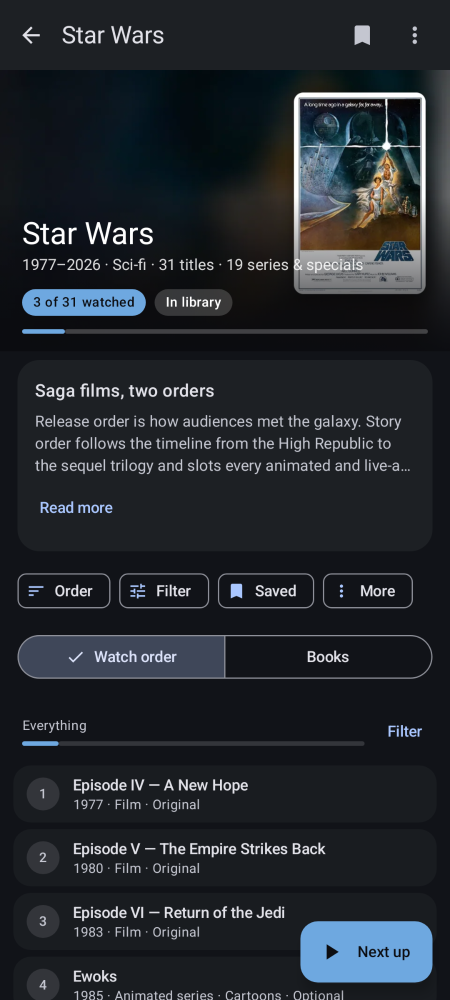
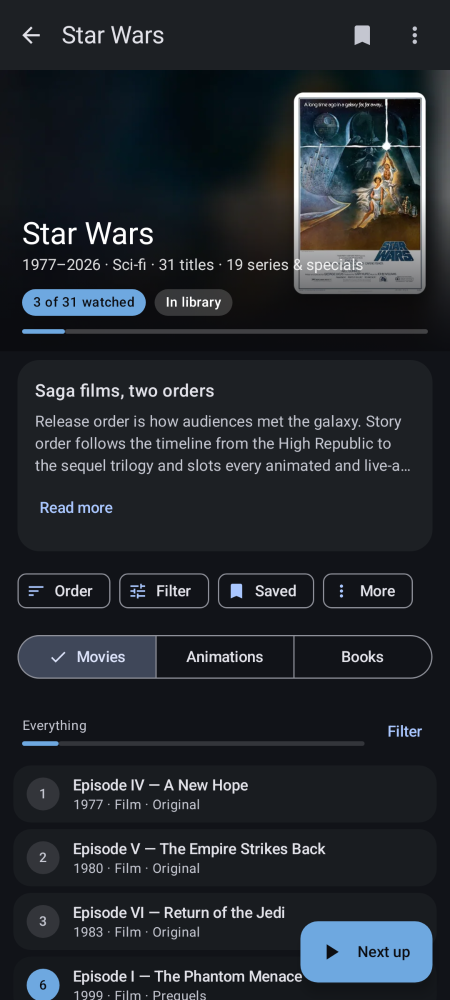
Sequence 2.6: split detail into Movies, Animations and Books tabs

diff --git a/app/src/main/java/com/sequence/watchorder/ui/DetailScreen.kt b/app/src/main/java/com/sequence/watchorder/ui/DetailScreen.kt
@@ -82,7 +82,9 @@ fun DetailScreen(vm: MainViewModel, franchise: Franchise) {
     val accent = vm.catalog.accent(franchise.id).toPalette()
     val works = vm.catalog.worksFor(franchise.id)
     val hasBooks = works.isNotEmpty()
+    val hasAnimations = Logic.hasAnimation(franchise)
     val showingBooks = vm.detailTab == DetailTab.BOOKS && hasBooks
+    val showingAnimations = vm.detailTab == DetailTab.ANIMATIONS && hasAnimations
 
     val watched = vm.watchedFor(franchise.id).toSet()
     val read = vm.readFor(franchise.id).toSet()
@@ -96,6 +98,7 @@ fun DetailScreen(vm: MainViewModel, franchise: Franchise) {
     val rows: List<DetailRow> = remember(
         franchise,
         showingBooks,
+        showingAnimations,
         watched,
         read,
         today,
@@ -103,19 +106,20 @@ fun DetailScreen(vm: MainViewModel, franchise: Franchise) {
         vm.watchFilter,
         vm.bookFilter,
     ) {
-        if (showingBooks) {
-            buildBookRows(vm, franchise, read)
-        } else {
-            buildWatchRows(vm, franchise, watched, today)
+        when {
+            showingBooks -> buildBookRows(vm, franchise, read)
+            showingAnimations -> buildWatchRows(vm, franchise, watched, today, animated = true)
+            else -> buildWatchRows(vm, franchise, watched, today, animated = false)
         }
     }
 
-    val nextWatch = Logic.nextUp(
-        Logic.orderEntries(franchise, state.mode),
-        watched,
-        today,
-        vm.watchFilter,
-    )
+    val nextWatch = if (showingBooks) {
+        null
+    } else {
+        val ordered = Logic.orderEntries(franchise, state.mode)
+            .filter { it.animated == showingAnimations }
+        Logic.nextUp(ordered, watched, today, vm.watchFilter)
+    }
     val nextBook = Logic.nextToRead(Logic.orderWorks(works, state.mode), read, vm.bookFilter)
 
     Scaffold(
@@ -210,11 +214,18 @@ fun DetailScreen(vm: MainViewModel, franchise: Franchise) {
                 )
             }
 
-            if (hasBooks) {
+            if (hasBooks || hasAnimations) {
                 item("tabs") {
                     DetailTabs(
-                        showingBooks = showingBooks,
-                        onWatch = { vm.selectDetailTab(DetailTab.WATCH) },
+                        selected = when {
+                            showingBooks -> DetailTab.BOOKS
+                            showingAnimations -> DetailTab.ANIMATIONS
+                            else -> DetailTab.MOVIES
+                        },
+                        hasAnimations = hasAnimations,
+                        hasBooks = hasBooks,
+                        onMovies = { vm.selectDetailTab(DetailTab.MOVIES) },
+                        onAnimations = { vm.selectDetailTab(DetailTab.ANIMATIONS) },
                         onBooks = { vm.selectDetailTab(DetailTab.BOOKS) },
                     )
                 }
@@ -469,23 +480,37 @@ private fun SmallAction(label: String, icon: androidx.compose.ui.graphics.vector
 }
 
 @Composable
-private fun DetailTabs(showingBooks: Boolean, onWatch: () -> Unit, onBooks: () -> Unit) {
+private fun DetailTabs(
+    selected: DetailTab,
+    hasAnimations: Boolean,
+    hasBooks: Boolean,
+    onMovies: () -> Unit,
+    onAnimations: () -> Unit,
+    onBooks: () -> Unit,
+) {
+    val tabs = buildList {
+        add(DetailTab.MOVIES to "Movies")
+        if (hasAnimations) add(DetailTab.ANIMATIONS to "Animations")
+        if (hasBooks) add(DetailTab.BOOKS to "Books")
+    }
     Surface(color = MaterialTheme.colorScheme.background) {
         SingleChoiceSegmentedButtonRow(
             Modifier
                 .fillMaxWidth()
                 .padding(horizontal = 16.dp, vertical = 8.dp),
         ) {
-            SegmentedButton(
-                selected = !showingBooks,
-                onClick = onWatch,
-                shape = SegmentedButtonDefaults.itemShape(index = 0, count = 2),
-            ) { Text("Watch order") }
-            SegmentedButton(
-                selected = showingBooks,
-                onClick = onBooks,
-                shape = SegmentedButtonDefaults.itemShape(index = 1, count = 2),
-            ) { Text("Books") }
+            tabs.forEachIndexed { index, tab ->
+                val (value, label) = tab
+                SegmentedButton(
+                    selected = selected == value,
+                    onClick = when (value) {
+                        DetailTab.MOVIES -> onMovies
+                        DetailTab.ANIMATIONS -> onAnimations
+                        DetailTab.BOOKS -> onBooks
+                    },
+                    shape = SegmentedButtonDefaults.itemShape(index = index, count = tabs.size),
+                ) { Text(label) }
+            }
         }
     }
 }
@@ -661,10 +686,12 @@ private fun buildWatchRows(
     franchise: Franchise,
     watched: Set<String>,
     today: String,
+    animated: Boolean,
 ): List<DetailRow> {
     val ordered = Logic.orderEntries(franchise, vm.progress.mode)
     val positions = Logic.withPositions(ordered)
     val visible = Logic.visibleItems(positions, watched, effectiveWatchFilter(vm, franchise))
+        .filter { it.entry.animated == animated }
     val groups = Logic.groupItems(visible, vm.progress.mode)
     return buildList {
         for (group in groups) {
@@ -698,7 +725,6 @@ private fun effectiveWatchFilter(vm: MainViewModel, franchise: Franchise): Watch
     kind = if (Logic.hasMixedKinds(franchise)) vm.watchFilter.kind else "all",
     hideSeen = vm.watchFilter.hideSeen,
     essentials = vm.watchFilter.essentials,
-    animatedOnly = vm.watchFilter.animatedOnly,
 )
 
 private fun effectiveBookFilter(vm: MainViewModel, works: List<Work>): BookFilter {
@@ -724,7 +750,6 @@ private fun describeWatchFilter(filter: WatchFilter, franchise: Franchise): Stri
         parts += "Everything"
     }
     if (filter.essentials) parts += "essentials only"
-    if (filter.animatedOnly) parts += "animation only"
     if (filter.hideSeen) parts += "seen hidden"
     return parts.joinToString(" · ")
 }

diff --git a/app/src/main/java/com/sequence/watchorder/SheetHost.kt b/app/src/main/java/com/sequence/watchorder/SheetHost.kt
@@ -85,7 +85,7 @@ fun SheetHost(vm: MainViewModel) {
 
 @Composable
 private fun OrderSheet(vm: MainViewModel, franchise: Franchise?) {
-    val screenTab = vm.detailTab == DetailTab.WATCH ||
+    val screenTab = vm.detailTab != DetailTab.BOOKS ||
         (franchise != null && vm.catalog.worksFor(franchise.id).isEmpty())
     val releaseTitle = if (screenTab) "Release date" else "Published"
     val releaseBody = if (screenTab) "The order they premiered" else "By the year each one first came out"
@@ -114,14 +114,13 @@ private fun OrderSheet(vm: MainViewModel, franchise: Franchise?) {
 @Composable
 private fun FilterSheet(vm: MainViewModel, franchise: Franchise?) {
     val works = franchise?.let { vm.catalog.worksFor(it.id) }.orEmpty()
-    val screenTab = vm.detailTab == DetailTab.WATCH || works.isEmpty()
+    val screenTab = vm.detailTab != DetailTab.BOOKS || works.isEmpty()
     val watchFilter = vm.watchFilter
     val bookFilter = vm.bookFilter
     val mixedKinds = franchise?.let { Logic.hasMixedKinds(it) } == true
     val hasFilms = franchise?.let { Logic.hasKind(it, "film") } == true
     val hasSeries = franchise?.let { Logic.hasKind(it, "series") } == true
     val hasGames = franchise?.let { Logic.hasKind(it, "game") } == true
-    val hasAnimation = franchise?.let { Logic.hasAnimation(it) } == true
     val optionalEntries = franchise?.let { Logic.hasOptional(it) } == true
     val optionalWorks = Logic.hasOptionalWorks(works)
 
@@ -159,14 +158,6 @@ private fun FilterSheet(vm: MainViewModel, franchise: Franchise?) {
                     onClick = { vm.updateWatchFilter(watchFilter.copy(kind = "game")) },
                 )
             }
-        }
-        if (hasAnimation) {
-            SheetToggleRow(
-                title = "Animation only",
-                subtitle = "Cartoons, animated series and animated films",
-                checked = watchFilter.animatedOnly,
-                onCheckedChange = { vm.updateWatchFilter(watchFilter.copy(animatedOnly = it)) },
-            )
         }
         if (optionalEntries) {
             SheetToggleRow(
@@ -287,7 +278,6 @@ private fun EntryDetailSheet(
         kind = if (mixed) vm.watchFilter.kind else "all",
         hideSeen = vm.watchFilter.hideSeen,
         essentials = vm.watchFilter.essentials,
-        animatedOnly = vm.watchFilter.animatedOnly,
     )
     val ordered = Logic.orderEntries(franchise, state.mode)
     val shown = Logic.visibleItems(Logic.withPositions(ordered), watched, filter)

diff --git a/app/src/main/java/com/sequence/watchorder/MainViewModel.kt b/app/src/main/java/com/sequence/watchorder/MainViewModel.kt
@@ -27,7 +27,7 @@ enum class AppTab(val label: String) {
     TAGS("Tags"),
 }
 
-enum class DetailTab { WATCH, BOOKS }
+enum class DetailTab { MOVIES, ANIMATIONS, BOOKS }
 
 sealed interface Sheet {
     data object Order : Sheet
@@ -78,7 +78,7 @@ class MainViewModel : AndroidViewModel {
 
     var detailId by mutableStateOf<String?>(null)
         private set
-    var detailTab by mutableStateOf(DetailTab.WATCH)
+    var detailTab by mutableStateOf(DetailTab.MOVIES)
         private set
     var watchFilter by mutableStateOf(WatchFilter())
         private set
@@ -141,7 +141,7 @@ class MainViewModel : AndroidViewModel {
     fun openFranchise(id: String, books: Boolean = false) {
         sheet = null
         detailId = id
-        detailTab = if (books) DetailTab.BOOKS else DetailTab.WATCH
+        detailTab = if (books) DetailTab.BOOKS else DetailTab.MOVIES
         watchFilter = WatchFilter()
         bookFilter = BookFilter()
         blurbOpen = false

diff --git a/app/src/main/java/com/sequence/watchorder/data/Logic.kt b/app/src/main/java/com/sequence/watchorder/data/Logic.kt
@@ -97,7 +97,6 @@ object Logic {
     ): List<PositionedEntry> = items.filter { item ->
         val entry = item.entry
         matchesKind(entry, filter.kind) &&
-            (!filter.animatedOnly || entry.animated) &&
             !(filter.essentials && entry.optional) &&
             !(filter.hideSeen && entry.id in watched)
     }
@@ -171,7 +170,6 @@ object Logic {
         isReleased(entry, today) &&
             entry.id !in watched &&
             (!filter.essentials || !entry.optional) &&
-            (!filter.animatedOnly || entry.animated) &&
             matchesKind(entry, filter.kind)
     }
 

diff --git a/app/src/test/java/com/sequence/watchorder/ScreenshotTest.kt b/app/src/test/java/com/sequence/watchorder/ScreenshotTest.kt
@@ -205,6 +205,17 @@ class ScreenshotTest {
     }
 
     @Test
+    fun detailAnimations() {
+        val model = vm().apply {
+            openFranchise("dc")
+            selectDetailTab(DetailTab.ANIMATIONS)
+        }
+        ArtRepository.warm(ArtKind.POSTER, "dc")
+        val franchise = catalog.franchise("dc")!!
+        shot("detail-animations") { DetailScreen(model, franchise) }
+    }
+
+    @Test
     fun detailBooks() {
         val model = vm().apply { openFranchise("wizarding-world", books = true) }
         ArtRepository.warm(ArtKind.POSTER, "wizarding-world")

diff --git a/app/src/main/java/com/sequence/watchorder/data/Models.kt b/app/src/main/java/com/sequence/watchorder/data/Models.kt
@@ -146,7 +146,6 @@ data class WatchFilter(
     val kind: String = "all",
     val hideSeen: Boolean = false,
     val essentials: Boolean = false,
-    val animatedOnly: Boolean = false,
 )
 
 data class BookFilter(

diff --git a/README.md b/README.md
@@ -1,4 +1,4 @@
-# Sequence 2.5 — 49 franchises, animation and cartoons
+# Sequence 2.6 — Movies and Animations tabs
 
 A native Kotlin / Jetpack Compose rebuild of the original WebView-based **Sequence** watch-order app.
 No WebView, no JavaScript bridge, no network permission. The catalogue and all artwork are
@@ -11,9 +11,9 @@ sheets, segmented buttons, and edge-to-edge insets.
 
 ## Ready to install
 
-- `Sequence-2.5.apk` — signed release build (`com.sequence.watchorder`, versionCode 270,
-  versionName `2.5`), the latest published release.
-- `Sequence-2.4.apk` — previous published release (versionCode 260, versionName `2.4`).
+- `Sequence-2.6.apk` — signed release build (`com.sequence.watchorder`, versionCode 280,
+  versionName `2.6`), the latest published release.
+- `Sequence-2.5.apk` — previous published release (versionCode 270, versionName `2.5`).
 - Minimum Android 8.0 (API 26), targets Android 15 (API 35).
 - Rendered previews of every screen are in `screenshots/`.
 
@@ -30,7 +30,8 @@ Each change ships under a new name so builds never get confused:
 | 1.6 | `Sequence-1.6.apk` | 17 more franchises (37 total), 116 more titles, 22 more books, real covers, and a motion pass over every screen |
 | 2.0 | `Sequence-2.0.apk` | Tags tab, inline Home search, appearance and layout settings, shared-axis transitions, a bottom bar that never re-creates, sticky upcoming months, and a reduced-motion-aware polish pass |
 | 2.4 | `Sequence-2.4.apk` | 12 more franchises (49 total), including six game series with a Game kind, game filtering and played/playing copy. A cleaner Home without the continue hero, up-next rows or mini bar. Detail and Upcoming rows are plain and tappable, with the swipe-to-mark-seen gesture removed. Previous release. |
-| 2.5 | `Sequence-2.5.apk` | Animated series, cartoons and animated films added across the catalogue: 59 new optional entries, from Star Wars: Droids and The Real Ghostbusters to X-Men: The Animated Series, Batman: The Animated Series, Transformers: Prime and Sonic Prime. Animated rows are labelled, and the filter gains an "Animation only" toggle. Current release. |
+| 2.5 | `Sequence-2.5.apk` | Animated series, cartoons and animated films added across the catalogue: 59 new optional entries, from Star Wars: Droids and The Real Ghostbusters to X-Men: The Animated Series, Batman: The Animated Series, Transformers: Prime and Sonic Prime. Animated rows are labelled. Previous release. |
+| 2.6 | `Sequence-2.6.apk` | The detail screen splits into **Movies**, **Animations** and **Books** tabs. The old "Watch order" tab is now Movies, animations get their own tab so cartoons never repeat in the film list, and each tab keeps its own next-up button. The redundant "Animation only" filter toggle is gone. Current release. |
 
 Versions 1.7 through 1.10 and 2.1 through 2.3 were internal builds; their changes are part of 2.0 and
 2.4 respectively.
@@ -57,9 +58,10 @@ APK name both follow it.
 - **Search** — franchises, films, series, games, animated titles, books and comics, with a match count
   on every result section; it opens inline on Home and closing it keeps your place.
 - **Franchise detail** — hero art with a scroll parallax, expandable blurb, release/story ordering,
-  watch filters that include games, plus an "Animation only" toggle wherever animation exists, book
-  format filters, series/game/special/animation markers, optional-entry markers, per-title sheets,
-  "mark everything up to here", reading paths, cover checkmarks, and a next-up FAB.
+  **Movies**, **Animations** and **Books** tabs (each shown only when the franchise has that content),
+  watch filters that include games, book format filters, series/game/special/animation markers,
+  optional-entry markers, per-title sheets, "mark everything up to here", reading paths, cover
+  checkmarks, and a per-tab next-up FAB.
 - **Settings** — start tab, hide finished franchises, theme and vibration, reduce motion, library
   layout and sort, watching order, export/import, clear all progress (confirmed), and reset settings.
 - **Undo snackbar** after progress and save changes, matching the original behaviour.
@@ -212,9 +214,9 @@ $env:JAVA_HOME = "C:\Projects\Orderly\.toolchain\jdk17"
 
 Outputs:
 
-- `app/build/outputs/apk/debug/app-debug.apk` (`com.sequence.watchorder.debug`, `2.5-debug`)
+- `app/build/outputs/apk/debug/app-debug.apk` (`com.sequence.watchorder.debug`, `2.6-debug`)
 - `app/build/outputs/apk/release/app-release.apk` (signed with `sequence-release.jks`)
-- `Sequence-2.5.apk` — the current release build, also attached to the `v2.5` GitHub release
+- `Sequence-2.6.apk` — the current release build, also attached to the `v2.6` GitHub release
 
 ### Android Studio
 
@@ -252,8 +254,9 @@ local `sequence-release.jks` is not in the repository.
   hand-checked dates where Wikidata only had a premiere or a stale scheduling claim.
 - Animated entries carry `animated: true`. They keep their normal `kind` (`film`, `series` or
   `special`), are labelled "Animated film", "Animated series" or "Animated special" in rows and
-  sheets, and the detail filter offers an "Animation only" toggle. The 59 new animated entries are
-  optional side viewing; franchises without an official animated work were left alone.
+  sheets, and appear only on the Animations tab; Movies shows everything else, so titles never
+  repeat across the two. The 59 new animated entries are optional side viewing; franchises without
+  an official animated work were left alone.
 - Game entries use `kind: "game"`. They count and filter like other entries, are labelled "Game" in
   rows and sheets, and game-only franchises say "played" instead of "watched".
 - Upcoming titles do not count toward progress and cannot be marked seen.
